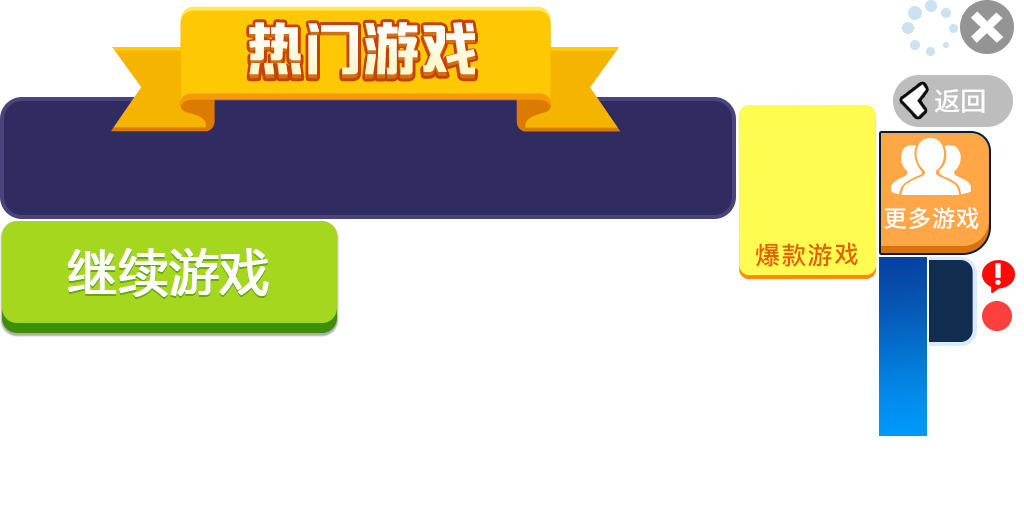
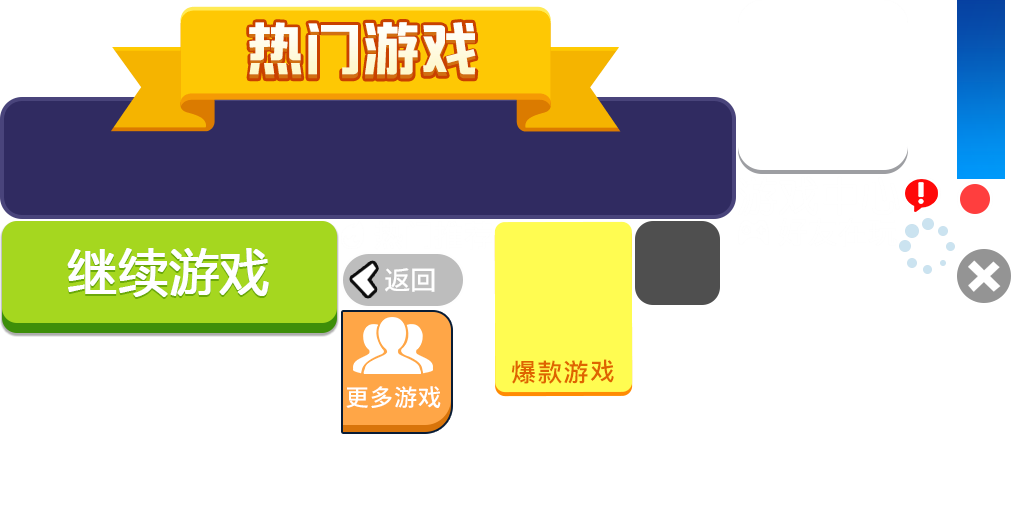
Oppo广告组件 优化

Changed region(s): [[0.3125, 0.0, 1.0, 0.875]]

diff --git a/FakeProject/code/laya/p_yinyou/src/script/MainStart.ts b/FakeProject/code/laya/p_yinyou/src/script/MainStart.ts
@@ -30,7 +30,7 @@ export default class MainStart extends LTStart {
             case EPlatformType.Web:
                 console.log("web平台,默认框架测试数据");
                 this._gameVersion = '1.0.1';//1.0.1 为全策略模式 
-                platformData.appId = "11111111111"//'88888888';
+                platformData.appId = "88888888"//'88888888';
                 platformData.appKey = '11111111111';
                 break;
             case EPlatformType.TT:
@@ -101,6 +101,7 @@ export default class MainStart extends LTStart {
                 break;
             case EPlatformType.Oppo:
             case EPlatformType.TT:
+            case EPlatformType.Web:
                 LTSDK.CreateInstace(SDK_CQ, this._gameName, this._gameVersion, this._appId);
             default:
                 LTSDK.CreateInstace(SDK_Default, this._gameName, this._gameVersion, this._appId);

diff --git a/FakeProject/code/laya/p_yinyou/src/ui/Main/UI_CommonUI.ts b/FakeProject/code/laya/p_yinyou/src/ui/Main/UI_CommonUI.ts
@@ -19,6 +19,7 @@ export default class UI_CommonUI extends fgui.GComponent {
 	public m_btn_unlockprogress:fgui.GButton;
 	public m_btn_exskin:fgui.GButton;
 	public m_btn_bonus:fgui.GButton;
+	public m___sidegames:fgui.GGraph;
 
 	public static URL:string = "ui://kk7g5mmmfkl1g";
 
@@ -46,5 +47,6 @@ export default class UI_CommonUI extends fgui.GComponent {
 		this.m_btn_unlockprogress = <fgui.GButton><any>(this.getChildAt(13));
 		this.m_btn_exskin = <fgui.GButton><any>(this.getChildAt(14));
 		this.m_btn_bonus = <fgui.GButton><any>(this.getChildAt(15));
+		this.m___sidegames = <fgui.GGraph><any>(this.getChildAt(16));
 	}
 }

diff --git a/FakeProject/code/laya/p_yinyou/src/ui/Main/UI_Main.ts b/FakeProject/code/laya/p_yinyou/src/ui/Main/UI_Main.ts
@@ -13,7 +13,6 @@ export default class UI_Main extends fgui.GComponent {
 	public m_btn_performance:fgui.GButton;
 	public m_btn_feature:fgui.GButton;
 	public m_btn_common2:fgui.GButton;
-	public m___sidegames:fgui.GGraph;
 
 	public static URL:string = "ui://kk7g5mmmjhmq1";
 
@@ -35,6 +34,5 @@ export default class UI_Main extends fgui.GComponent {
 		this.m_btn_performance = <fgui.GButton><any>(this.getChildAt(7));
 		this.m_btn_feature = <fgui.GButton><any>(this.getChildAt(8));
 		this.m_btn_common2 = <fgui.GButton><any>(this.getChildAt(9));
-		this.m___sidegames = <fgui.GGraph><any>(this.getChildAt(10));
 	}
 }
